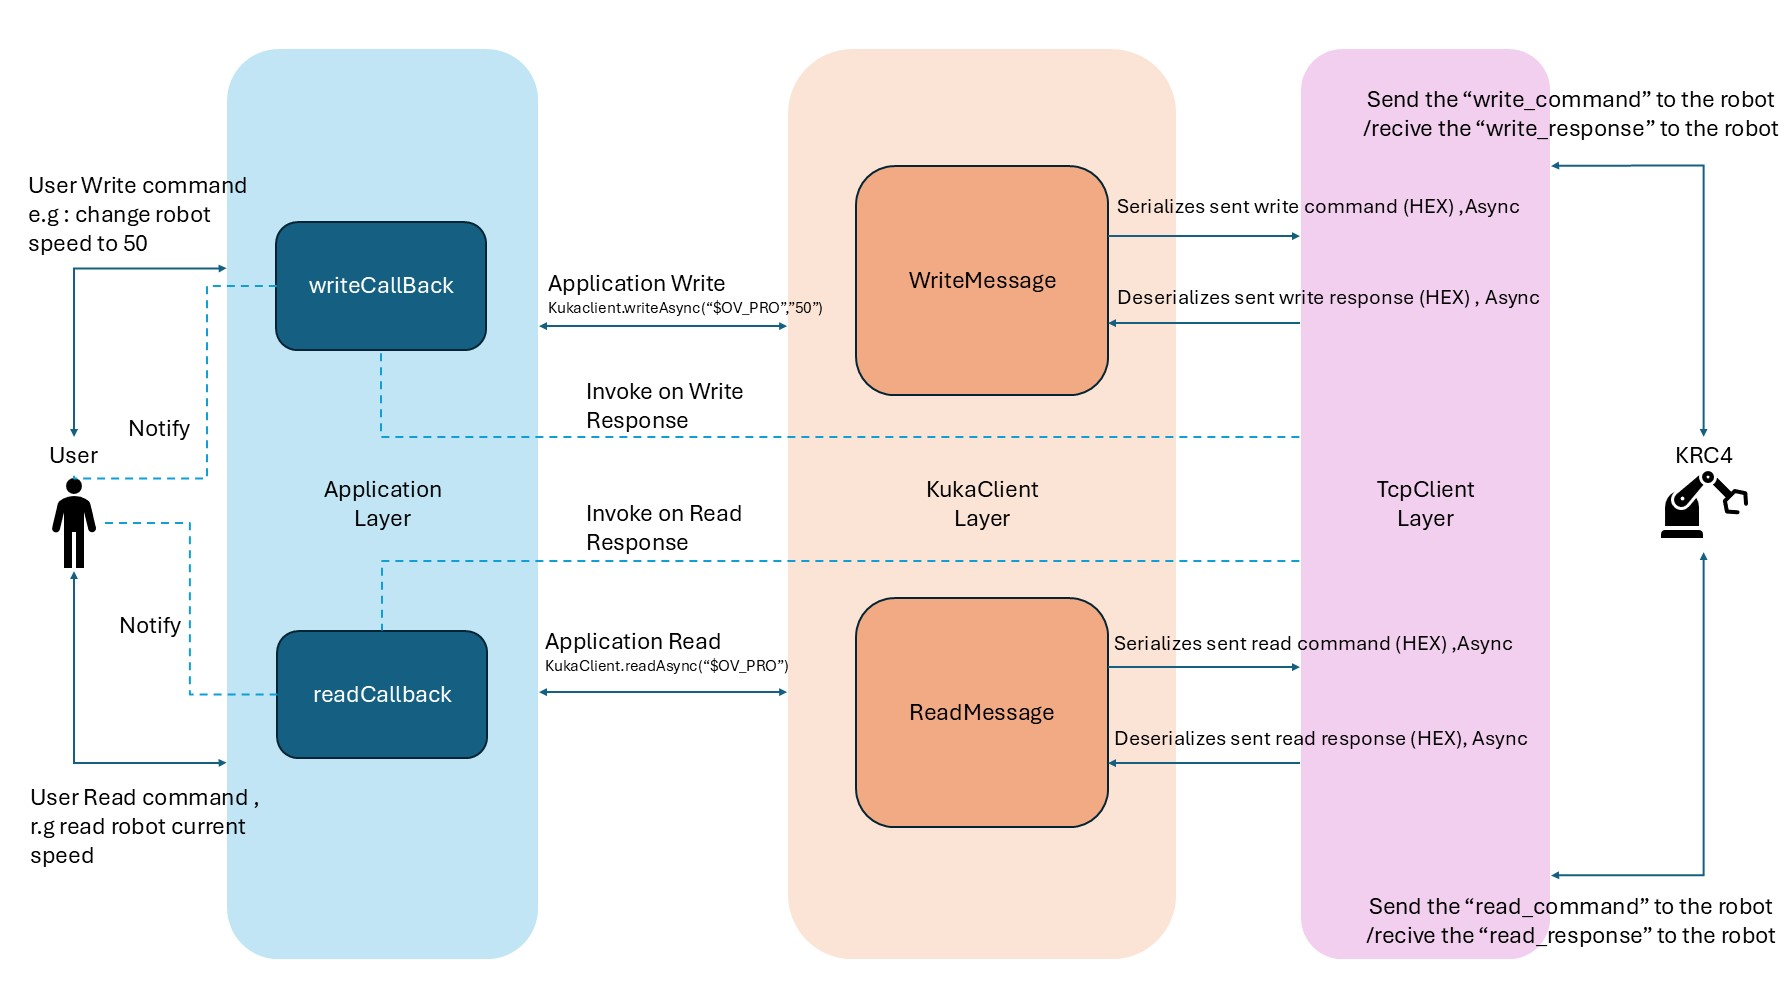
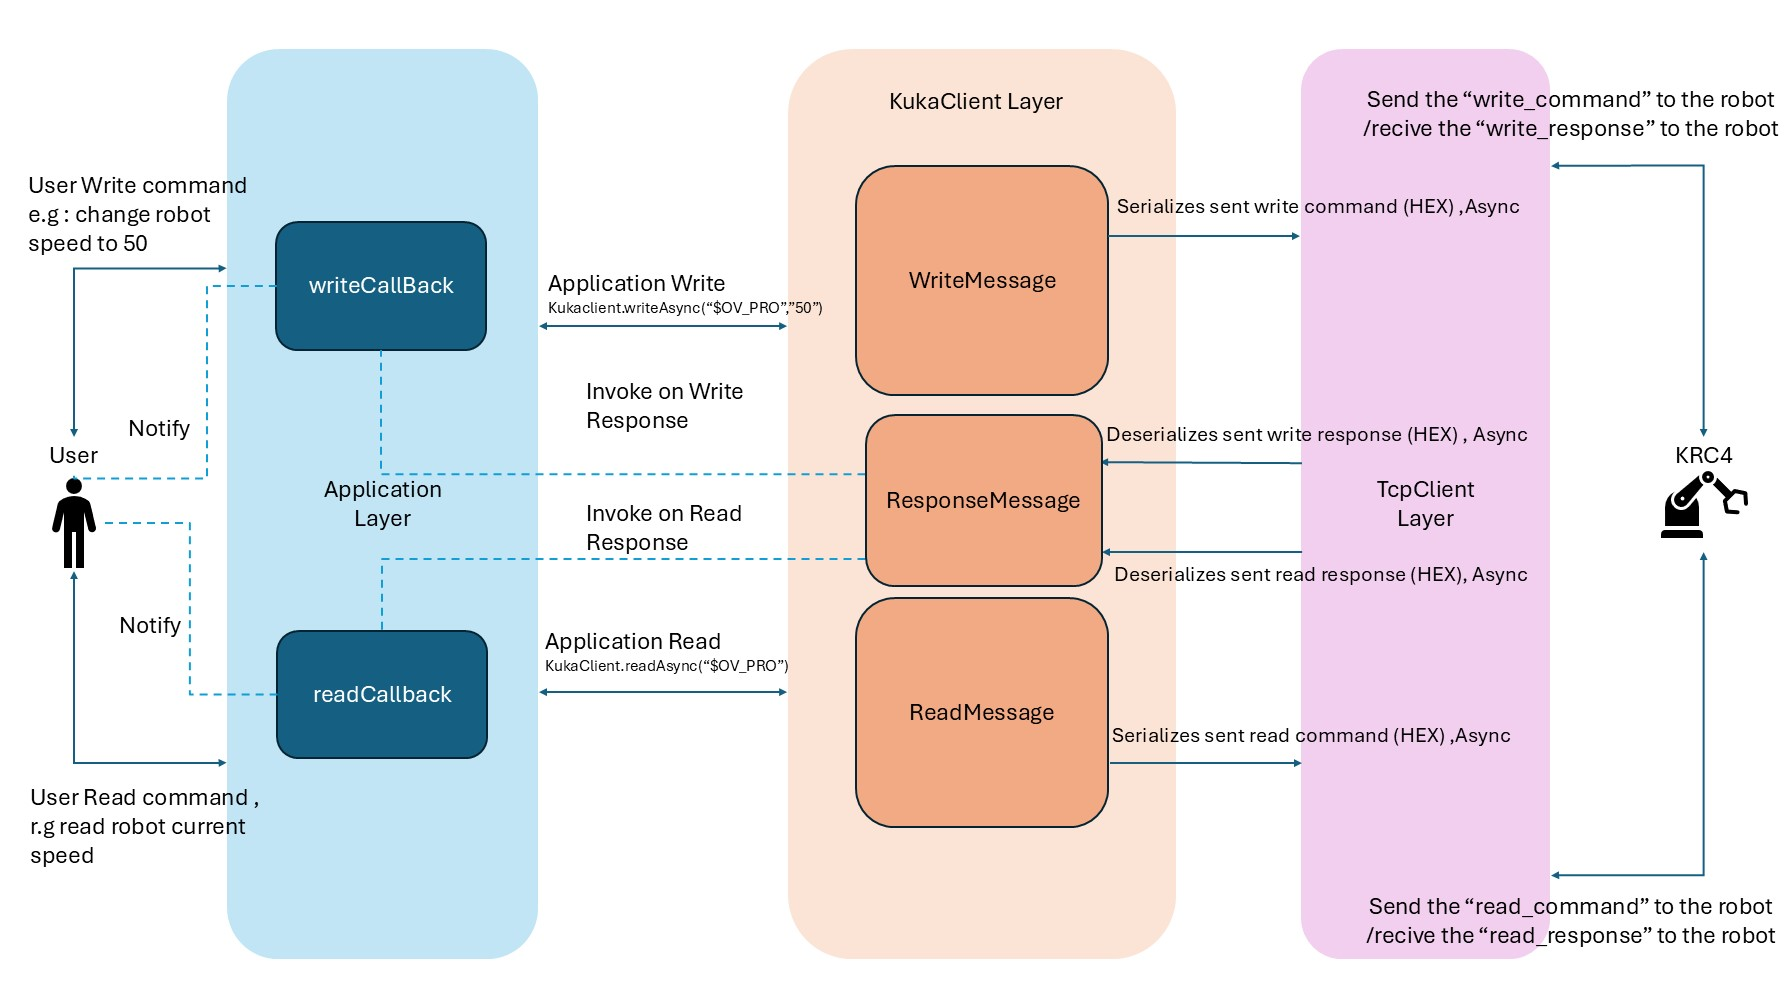
Added : New concept design of the cppopenshowvar

diff --git a/Software/Experimental/CppOpenShowVarClient/CppOpenShowVar.md b/Software/Experimental/CppOpenShowVarClient/CppOpenShowVar.md
@@ -6,13 +6,24 @@
 - [CppOpenShowVar a KukaVarProxy client concept](#cppopenshowvar-a-kukavarproxy-client-concept)
   - [Index](#index)
   - [Concept](#concept)
+    - [Overview of Layers](#overview-of-layers)
       - [1. **Application Layer**](#1-application-layer)
       - [2. **KukaClient Layer**](#2-kukaclient-layer)
       - [3. **TCPClient Layer**](#3-tcpclient-layer)
-      - [4. **Robot (KRC4)**](#4-robot-krc4)
-    - [**Flow Summary**:](#flow-summary)
+      - [4. **KRC4 Robot Controller**](#4-krc4-robot-controller)
+    - [Detailed Flow](#detailed-flow)
+      - [**Write Command Flow**](#write-command-flow)
+      - [**Read Command Flow**](#read-command-flow)
+    - [Callbacks and Notification](#callbacks-and-notification)
   - [Classes](#classes)
+    - [1. **TCPClient**](#1-tcpclient)
+    - [2. **KukaVarProxyClient**](#2-kukavarproxyclient)
+    - [3. **Message** (Abstract Class)](#3-message-abstract-class)
+    - [4. **WriteMessage**](#4-writemessage)
+    - [5. **ReadMessage**](#5-readmessage)
+    - [6. **ResponseMessage**](#6-responsemessage)
   - [Usage](#usage)
+  - [Tests](#tests)
 
 ## Concept 
 
@@ -20,42 +31,82 @@ The main concept is to run a cpp tcp/ip client on the host machine .
 
 ![OpenShowVarConcept](/Images/openShowVarAsync_Concept.jpg)
 This diagram illustrates the asynchronous communication flow between a user issuing commands and a KUKA robot controller (KRC4) through the KUKAVarProxyClient. The system is structured into three main layers: Application Layer, KukaClient Layer, and TCPClient Layer, each handling specific responsibilities in the async communication process.
+
+### Overview of Layers
+
 #### 1. **Application Layer**
-- The **Application Layer** represents the user's interface with the system. Here, the user sends commands to read or write values from/to the KUKA robot. For example:
-  - The user issues a write command to change the robot's speed (`KukaClient.writeAsync("$OV_PRO", "50")`).
-  - Similarly, the user can request the current robot speed using a read command (`KukaClient.readAsync("$OV_PRO")`).
-- **Callbacks** (`writeCallback` and `readCallback`) are provided when making these async calls. These callbacks will be executed when the robot’s response is received. 
-- Once the callback is invoked, the user is **notified** about the outcome of the operation (e.g., successful write or the value read).
+- The **user** sends either a **write** or **read** command to the robot.
+- For a **write command**, the user invokes `KukaClient.writeAsync()` with the desired variable (e.g., `$OV_PRO`) and the value (e.g., `50`).
+- For a **read command**, the user invokes `KukaClient.readAsync()` with the variable name (e.g., `$OV_PRO`).
+- After sending the command, **callbacks** (`writeCallback` or `readCallback`) are triggered to notify the user of the result.
 
 #### 2. **KukaClient Layer**
-- The **KukaClient Layer** acts as a middleman between the Application Layer and the low-level TCP communication. It handles the construction of **WriteMessage** and **ReadMessage** objects, which are serialized to a byte stream in HEX format and sent to the robot.
-- When a command like `writeAsync()` or `readAsync()` is called, the KukaClient layer:
-  - Serializes the command into the appropriate format.
-  - Passes the serialized message to the **TCPClient Layer** for asynchronous transmission.
-- Once the robot's response is received (via the TCPClient Layer), the **callback functions** (e.g., `writeCallback`, `readCallback`) are invoked to process the response (e.g., deserializing the response, checking for errors, etc.).
-- This layer ensures that operations are non-blocking by using async methods and triggering callbacks only when responses arrive.
+- The **KukaClient** acts as an interface between the application layer and the **TCPClient**.
+- For a **write operation**, it constructs a **`WriteMessage`** (to change a robot variable) and serializes it into a binary format, which is then sent via **TCPClient**.
+- For a **read operation**, it constructs a **`ReadMessage`** (to request a variable value) and similarly serializes it for transmission.
+- Upon receiving the robot's response, **`ResponseMessage`** is used to **deserialize** the binary response, extracting the result of the write operation or the value of the requested variable in a read operation.
 
 #### 3. **TCPClient Layer**
-- The **TCPClient Layer** handles the low-level networking operations. It sends serialized commands (both read and write) to the KRC4 robot controller over TCP asynchronously.
-- The TCPClient asynchronously:
-  - **Sends the serialized write command** to the robot and waits for the **write response** (e.g., acknowledgment that the robot speed has been updated).
-  - **Sends the serialized read command** to the robot and waits for the **read response** (e.g., the current value of the `$OV_PRO` variable).
-- Once the response (either read or write) is received and deserialized, the TCPClient triggers the corresponding **callback** in the KukaClient Layer, which then notifies the user of the result.
+- The **TCPClient** handles the asynchronous TCP communication with the robot via **KUKAVARPROXY**.
+- It sends the serialized **read** or **write** commands to the robot and waits for the response asynchronously.
+- Once the robot's response is received, it forwards the response data back to the **KukaClient** for processing.
 
-#### 4. **Robot (KRC4)**
-- The KUKA robot controller (KRC4) receives the **write commands** (e.g., to set the speed to 50%) or **read commands** (e.g., to retrieve the current robot speed) from the **TCPClient Layer**.
-- It then processes the command and sends back the appropriate response (either a confirmation of the write operation or the value requested in a read operation).
+#### 4. **KRC4 Robot Controller**
+- The **KRC4 controller** receives the **write** or **read** commands from **KUKAVARPROXY** and processes them. 
+  - For a **write command**, it updates the variable on the robot and sends a confirmation response back to the client.
+  - For a **read command**, it retrieves the value of the requested variable and sends it back in the response.
 
----
+### Detailed Flow
 
-### **Flow Summary**:
-1. **User Interaction**: The user sends an asynchronous command using `writeAsync()` or `readAsync()` with a **callback** function to handle the response.
-2. **Message Serialization**: In the **KukaClient Layer**, the write or read command is serialized into HEX format and passed to the TCPClient for asynchronous transmission.
-3. **Async Send and Receive**: The **TCPClient Layer** sends the serialized command to the robot and listens for a response asynchronously, without blocking the control loop.
-4. **Callback Execution**: Once the response is received and deserialized, the callback function (e.g., `writeCallback` or `readCallback`) is invoked to handle the response.
-5. **User Notification**: The user is notified via the callback when the robot’s response is processed, indicating the success or failure of the operation.
+#### **Write Command Flow**
+1. **User** triggers a write command: `KukaClient.writeAsync("$OV_PRO", "50")`.
+2. **`WriteMessage`** serializes the command into binary format (HEX) and sends it to the robot via **TCPClient**.
+3. The **robot** processes the command and sends a response indicating whether the operation was successful.
+4. **`ResponseMessage`** deserializes the response to check if the write operation succeeded.
+5. The **`writeCallback`** in the **Application Layer** is invoked, notifying the user of success or failure.
+
+#### **Read Command Flow**
+1. **User** triggers a read command: `KukaClient.readAsync("$OV_PRO")`.
+2. **`ReadMessage`** serializes the command into binary format (HEX) and sends it to the robot via **TCPClient**.
+3. The **robot** retrieves the value of the requested variable and sends it back in a response.
+4. **`ResponseMessage`** deserializes the response, extracting the value of the variable.
+5. The **`readCallback`** in the **Application Layer** is invoked, notifying the user of the variable’s value.
+
+### Callbacks and Notification
+- The **callbacks** in the **Application Layer** (`writeCallback` or `readCallback`) are triggered after the robot's response is processed. They notify the user whether the **write operation** succeeded or return the variable's value for a **read operation**.
 
 This architecture ensures non-blocking, efficient communication with the robot, allowing the system to remain responsive while waiting for robot responses.
 ## Classes
 
+![CppOpenShowVar_Classes](/Images/CppOpenShowVarClient_Classes.png)
+
+
+This class diagram outlines the main components for sending and receiving **read** and **write** commands to the KUKA robot using asynchronous TCP communication. The classes handle constructing the messages, serializing them into binary format, and deserializing the robot’s responses.
+
+### 1. **TCPClient**
+The `TCPClient` class manages the low-level asynchronous TCP communication with the KUKA robot. It is responsible for sending and receiving binary data using **Boost.Asio**.
+- **Role in the Concept Diagram**: This class is responsible for the actual TCP connection (sending and receiving commands/responses). It bridges the **KukaClient Layer** and the **KRC4 Robot**.
+
+### 2. **KukaVarProxyClient**
+The `KukaVarProxyClient` class acts as the main interface between the **Application Layer** and the robot. It provides high-level methods for sending **read** and **write** commands asynchronously by using the `TCPClient` for communication.
+- **Role in the Concept Diagram**: It handles **`writeAsync()`** and **`readAsync()`** operations, sending messages through the **TCPClient** and managing callbacks to notify the **Application Layer**.
+
+### 3. **Message** (Abstract Class)
+The `Message` class is a base class that provides the structure for both read and write commands. It defines the common fields (message ID, content length, and mode) and ensures serialization and deserialization of messages.
+- **Role in the Concept Diagram**: This abstract class forms the foundation for creating specific **ReadMessage** and **WriteMessage** objects that can be serialized into binary format and sent to the robot.
+
+### 4. **WriteMessage**
+The `WriteMessage` class is responsible for constructing the write command message to update a variable on the KUKA robot (e.g., setting `$OV_PRO` to `50`). It serializes the message into binary format.
+- **Role in the Concept Diagram**: Used by the **KukaVarProxyClient** to send **write commands** to the robot through **TCPClient**.
+
+### 5. **ReadMessage**
+The `ReadMessage` class constructs the read command message to request the value of a variable on the robot (e.g., reading `$OV_PRO`). It serializes the request into binary format.
+- **Role in the Concept Diagram**: Used by the **KukaVarProxyClient** to send **read commands** through **TCPClient** and retrieve variable values.
+
+### 6. **ResponseMessage**
+The `ResponseMessage` class deserializes the robot’s response (whether from a read or write command). It processes the response, extracts the variable value (in case of a read), or checks whether the operation was successful (for a write).
+- **Role in the Concept Diagram**: It handles deserializing the robot's response and invokes the corresponding **callback** in the **Application Layer** (either `writeCallback` or `readCallback`).
+
 ## Usage
+
+## Tests
